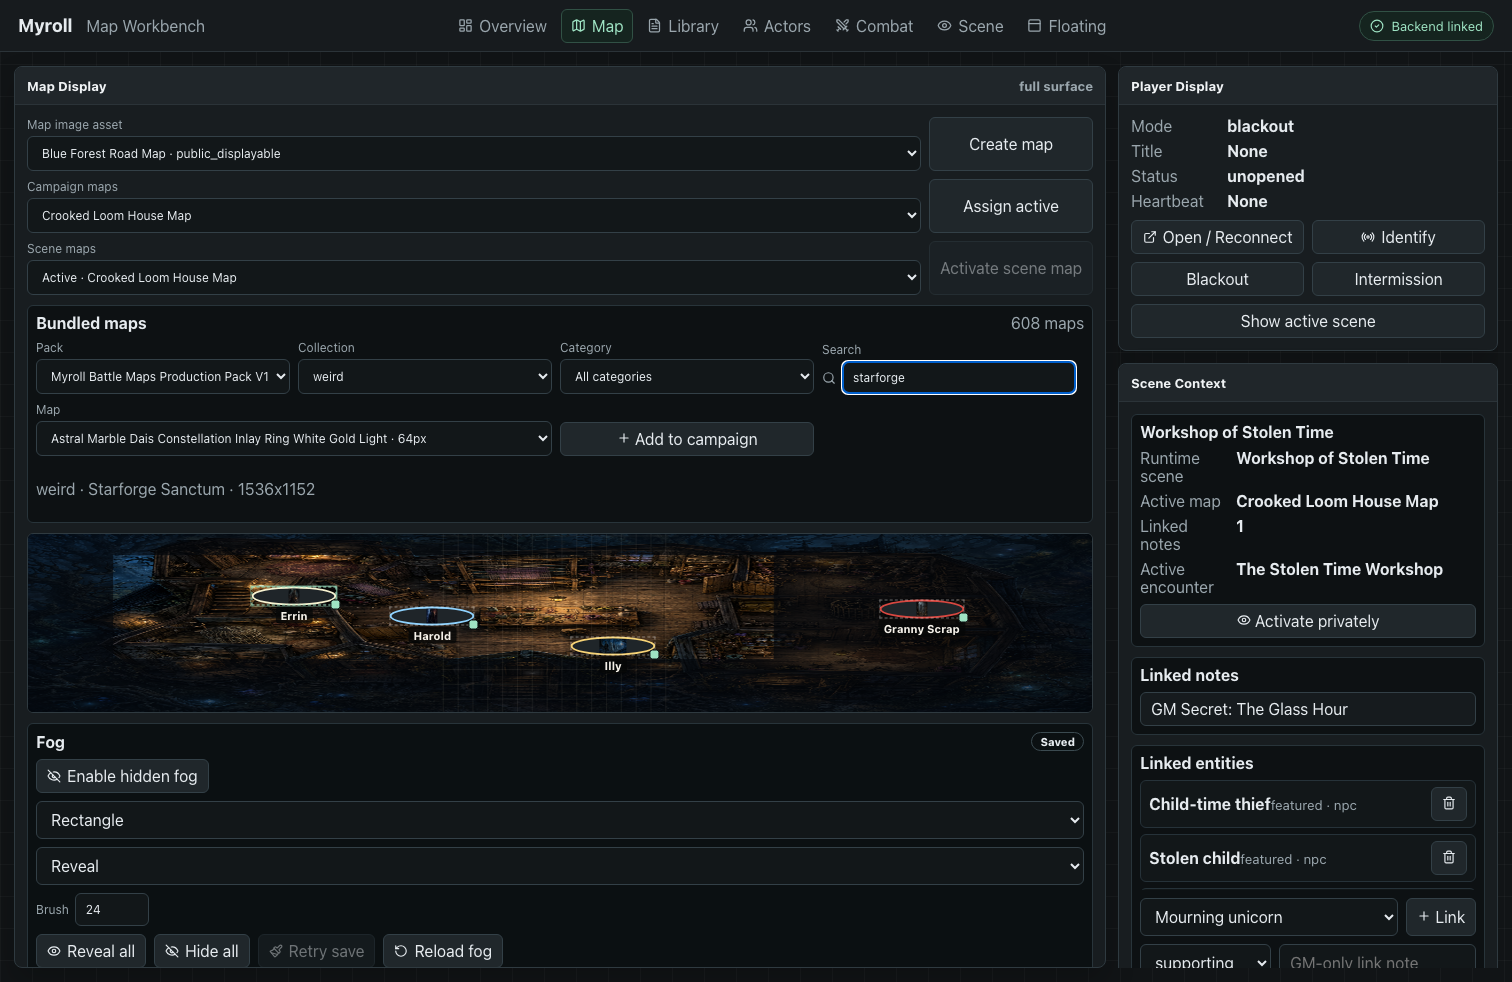
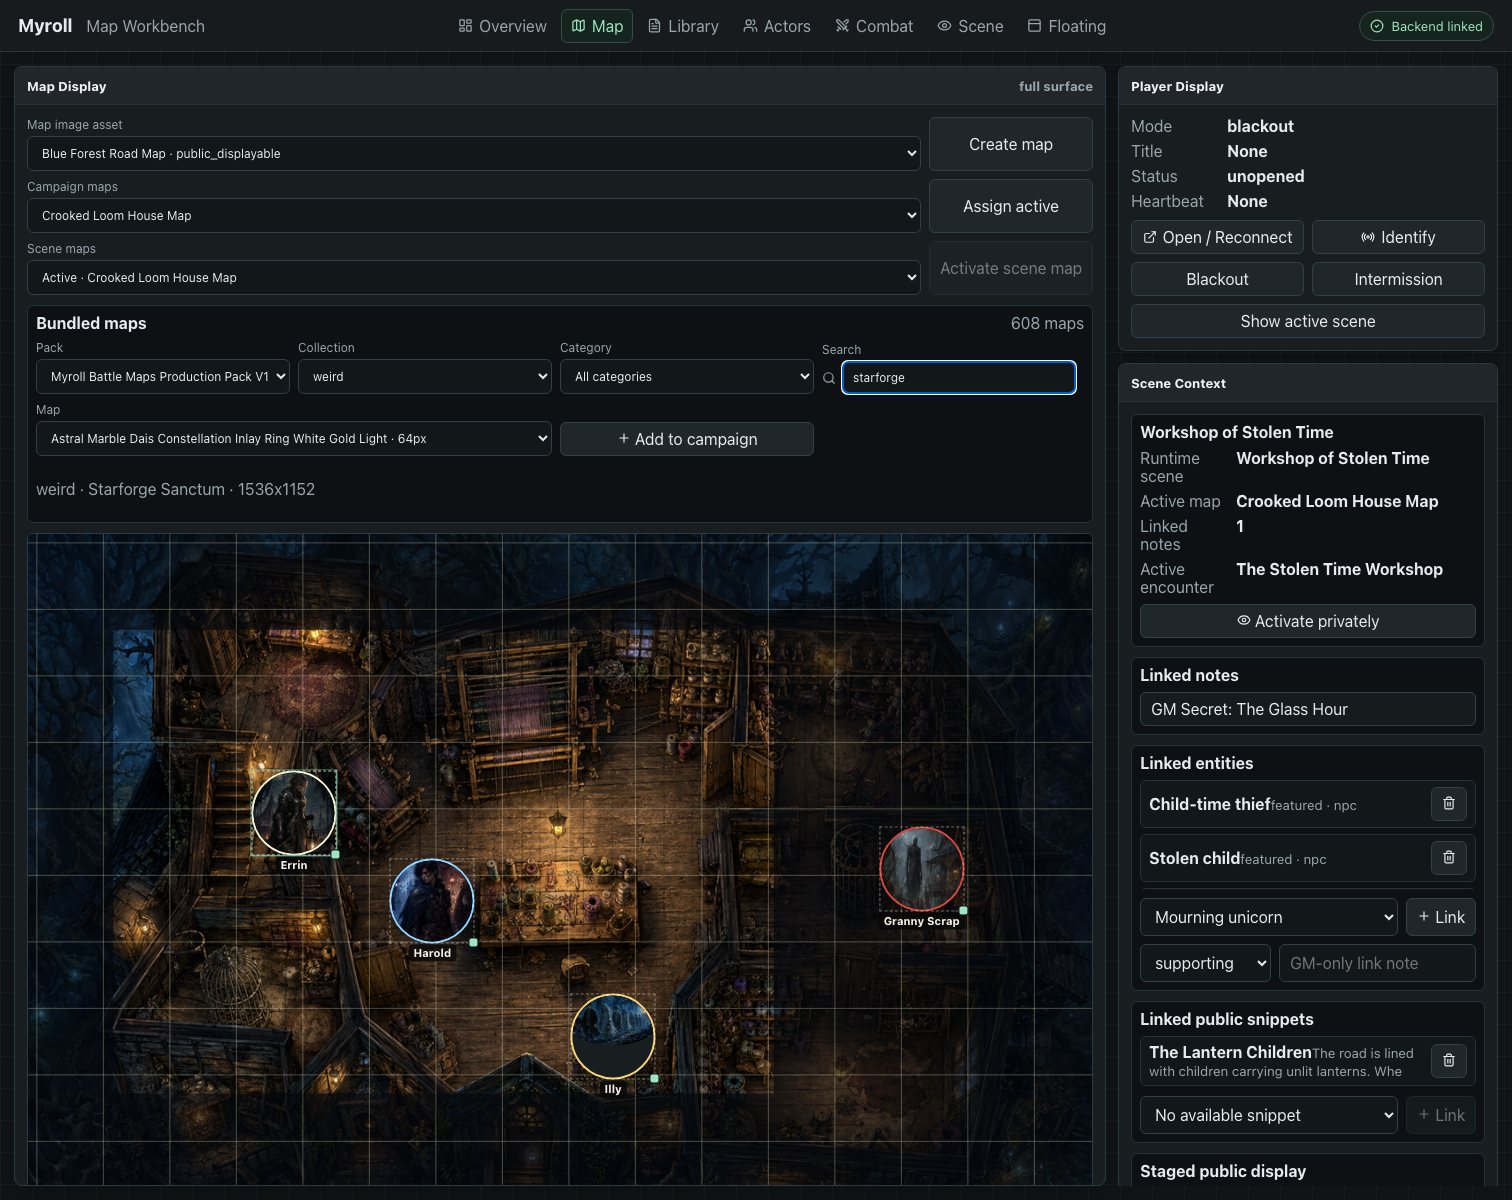
Fix GM map preview geometry
Render GM map previews with the real map aspect ratio so the workbench does not vertically squash maps while preserving player display fit behavior.

Crop portrait token images inside a clipped token frame with slight overscan so portrait tokens fill the visible token shape instead of showing padded fit-style portraits.

Regenerate the bundled map browser README screenshot after the geometry and portrait token rendering fixes.

diff --git a/frontend/src/map/MapRenderer.tsx b/frontend/src/map/MapRenderer.tsx
@@ -153,7 +153,9 @@ function TokenMarker({ token, mapWidth, mapHeight }: { token: PublicMapToken; ma
       data-token-id={token.id}
     >
       {token.style.shape === "portrait" && token.asset_url && !assetFailed ? (
-        <img src={token.asset_url} alt={token.name ?? "Token portrait"} onError={() => setAssetFailed(true)} />
+        <div className="map-token-portrait-frame">
+          <img src={token.asset_url} alt={token.name ?? "Token portrait"} onError={() => setAssetFailed(true)} />
+        </div>
       ) : null}
       {token.name ? <span>{token.name}</span> : null}
     </div>
@@ -198,9 +200,10 @@ export function MapRenderer({
   const showSvgGrid = payload.grid.visible && !(renderMode === "player" && usesFog);
   const xLines = showSvgGrid ? gridLinePositions(payload.width, payload.grid.size_px, payload.grid.offset_x) : [];
   const yLines = showSvgGrid ? gridLinePositions(payload.height, payload.grid.size_px, payload.grid.offset_y) : [];
+  const aspectRatio = `${payload.width} / ${payload.height}`;
   return (
-    <div className={`map-renderer fit-${payload.fit_mode} render-${renderMode}`}>
-      <div className="map-stage" style={{ aspectRatio: `${payload.width} / ${payload.height}` }}>
+    <div className={`map-renderer fit-${payload.fit_mode} render-${renderMode}`} style={renderMode === "gm" ? { aspectRatio } : undefined}>
+      <div className="map-stage" style={{ aspectRatio }}>
         {usesFog ? (
           <FogCanvas payload={payload} renderMode={renderMode} onFailure={() => setFailed(true)} />
         ) : (

diff --git a/frontend/src/App.test.tsx b/frontend/src/App.test.tsx
@@ -1361,10 +1361,11 @@ describe("GM shell widgets", () => {
         }
       ]
     };
-    render(<MapRenderer payload={payload} />);
+    const { container } = render(<MapRenderer payload={payload} />);
 
     expect(screen.getByText("Captain")).toBeInTheDocument();
     const portrait = screen.getByAltText("Captain");
+    expect(container.querySelector(".shape-portrait .map-token-portrait-frame")).toBeInTheDocument();
     fireEvent.error(portrait);
     expect(screen.queryByAltText("Captain")).not.toBeInTheDocument();
     expect(screen.getByText("Captain")).toBeInTheDocument();
@@ -1394,10 +1395,12 @@ describe("GM shell widgets", () => {
     const { container, rerender } = render(<MapRenderer payload={payload} renderMode="gm" />);
 
     expect(container.querySelector(".render-gm canvas")).toBeInTheDocument();
+    expect(container.querySelector(".render-gm")?.getAttribute("style")).toContain("aspect-ratio: 120 / 80");
     expect(container.querySelectorAll("line").length).toBeGreaterThan(0);
 
     rerender(<MapRenderer payload={payload} renderMode="player" />);
     expect(container.querySelector(".render-player canvas")).toBeInTheDocument();
+    expect(container.querySelector(".render-player")?.getAttribute("style") ?? "").not.toContain("aspect-ratio");
   });
 
   it("renders player display scene title and reconnecting overlay from last known state", () => {

diff --git a/frontend/src/styles.css b/frontend/src/styles.css
@@ -952,6 +952,18 @@ textarea {
   height: auto;
 }
 
+.map-renderer.render-gm {
+  width: 100%;
+  min-height: 0;
+  flex: 0 0 auto;
+}
+
+.map-renderer.render-gm .map-stage {
+  width: 100%;
+  height: auto;
+  max-height: none;
+}
+
 .map-stage img {
   display: block;
   width: 100%;
@@ -981,6 +993,14 @@ textarea {
   height: auto;
   max-width: 100%;
   max-height: 100%;
+}
+
+.map-renderer.render-gm .map-stage img,
+.map-renderer.render-gm .map-canvas {
+  width: 100%;
+  height: auto;
+  max-width: 100%;
+  max-height: none;
 }
 
 .map-grid {
@@ -1028,6 +1048,22 @@ textarea {
   height: 100%;
   border-radius: inherit;
   object-fit: cover;
+}
+
+.map-token-portrait-frame {
+  position: absolute;
+  inset: 0;
+  border-radius: inherit;
+  overflow: hidden;
+  background: rgba(0, 0, 0, 0.2);
+}
+
+.map-token-portrait-frame img {
+  display: block;
+  width: 100%;
+  height: 100%;
+  object-fit: cover;
+  transform: scale(1.18);
 }
 
 .map-token span {
